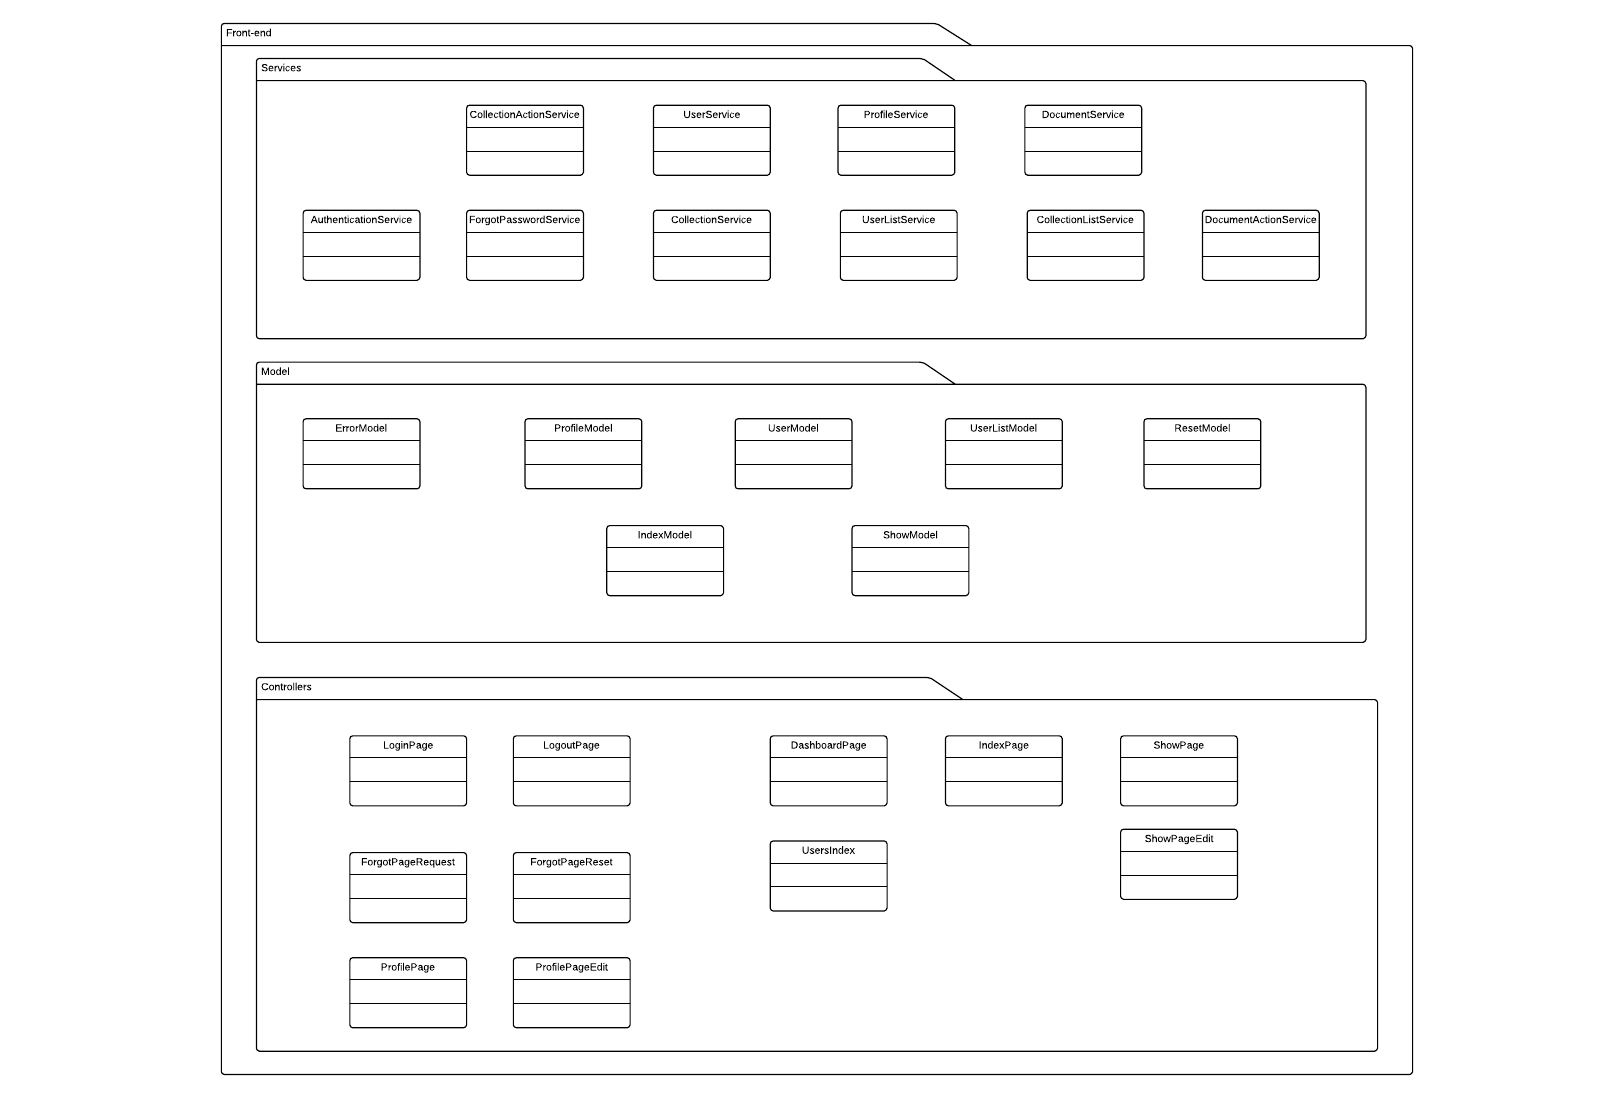
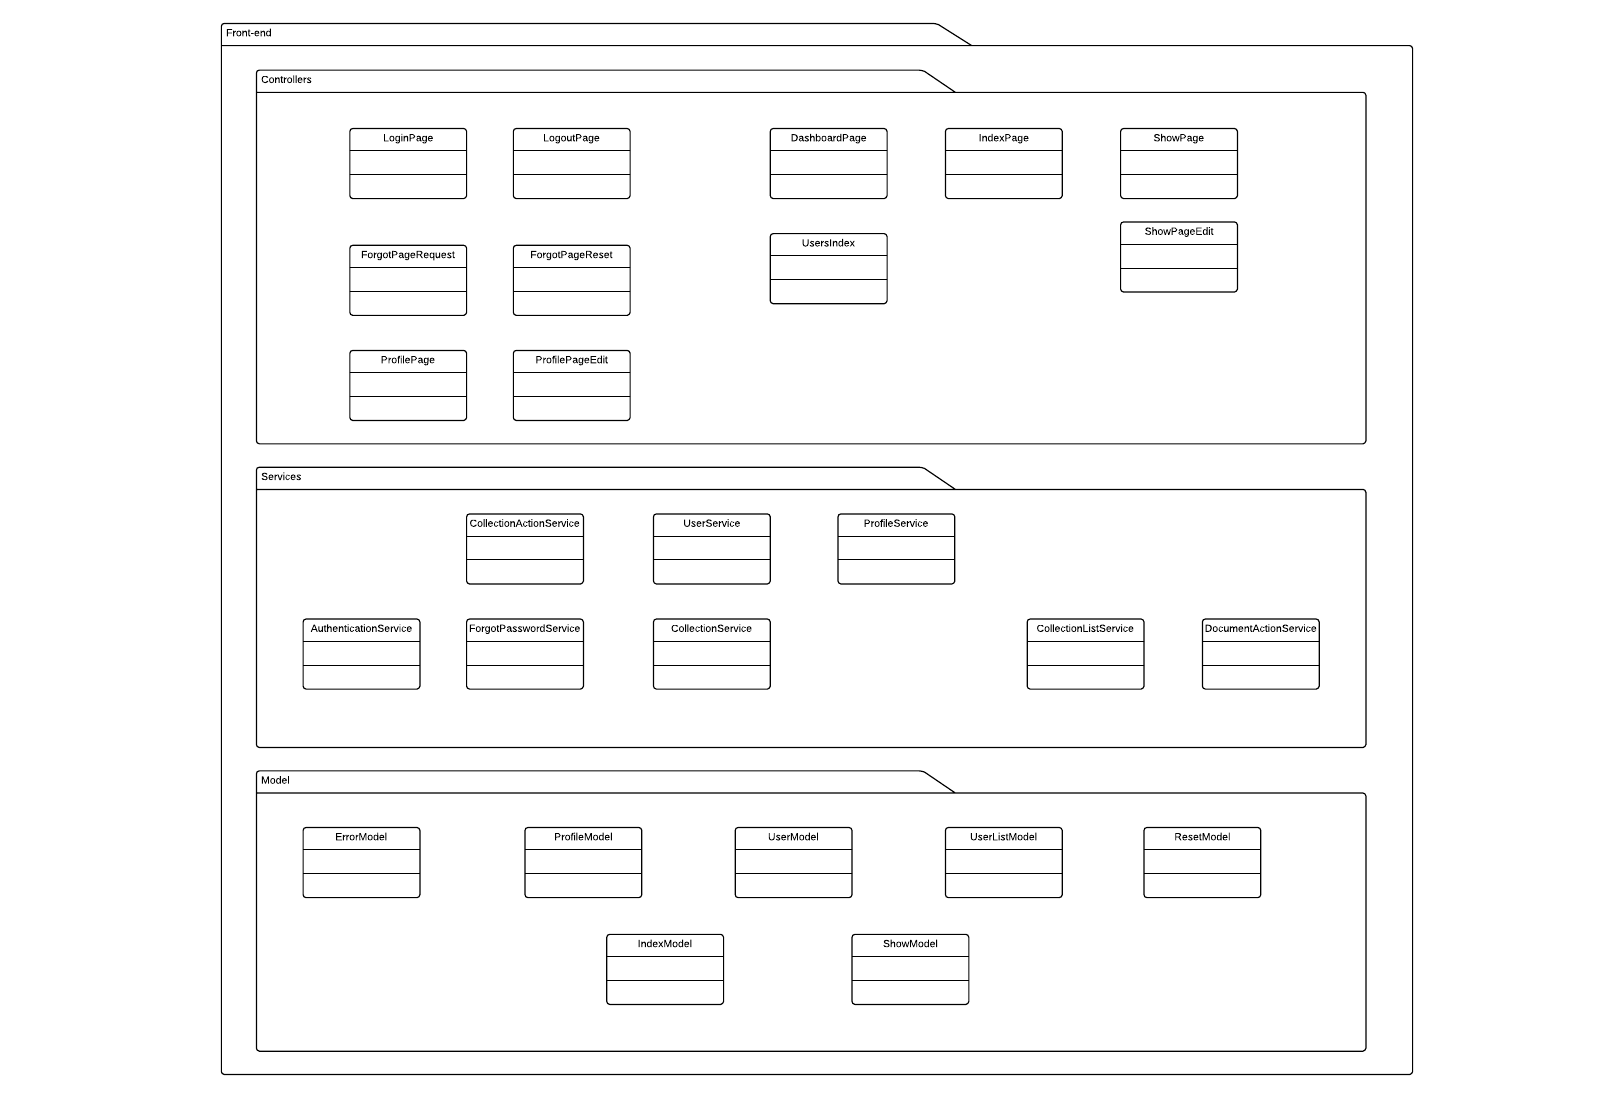
ST: Aggiunti i diagrammi all'architettura generale

diff --git a/documenti/SpecificaTecnica/capitolo-definizione-architettura.tex b/documenti/SpecificaTecnica/capitolo-definizione-architettura.tex
@@ -62,7 +62,7 @@ Per il formato di rappresentazione dei dati è stato scelto \glossario{JSON}, in
 
 \begin{figure}[H]
 \centering
-%TODO \includegraphics[width=\textwidth]{uml/diagramma-package-back-end.png}
+\includegraphics[width=\textwidth]{uml/Back-end-Diagramma dei Packages.png}
 \caption{Diagramma dei package del Back-end}
 \end{figure}
 
@@ -72,7 +72,7 @@ L'architettura del back-end si serve del pattern architetturale \glossario{MVC} 
 
 \begin{figure}[H]
 \centering
-%TODO \includegraphics[width=\textwidth]{uml/diagramma-package-front-end.png}
+\includegraphics[width=\textwidth]{uml/Front-end-Diagramma dei packages.png}
 \caption{Diagramma dei package del Front-end}
 \end{figure}
 
